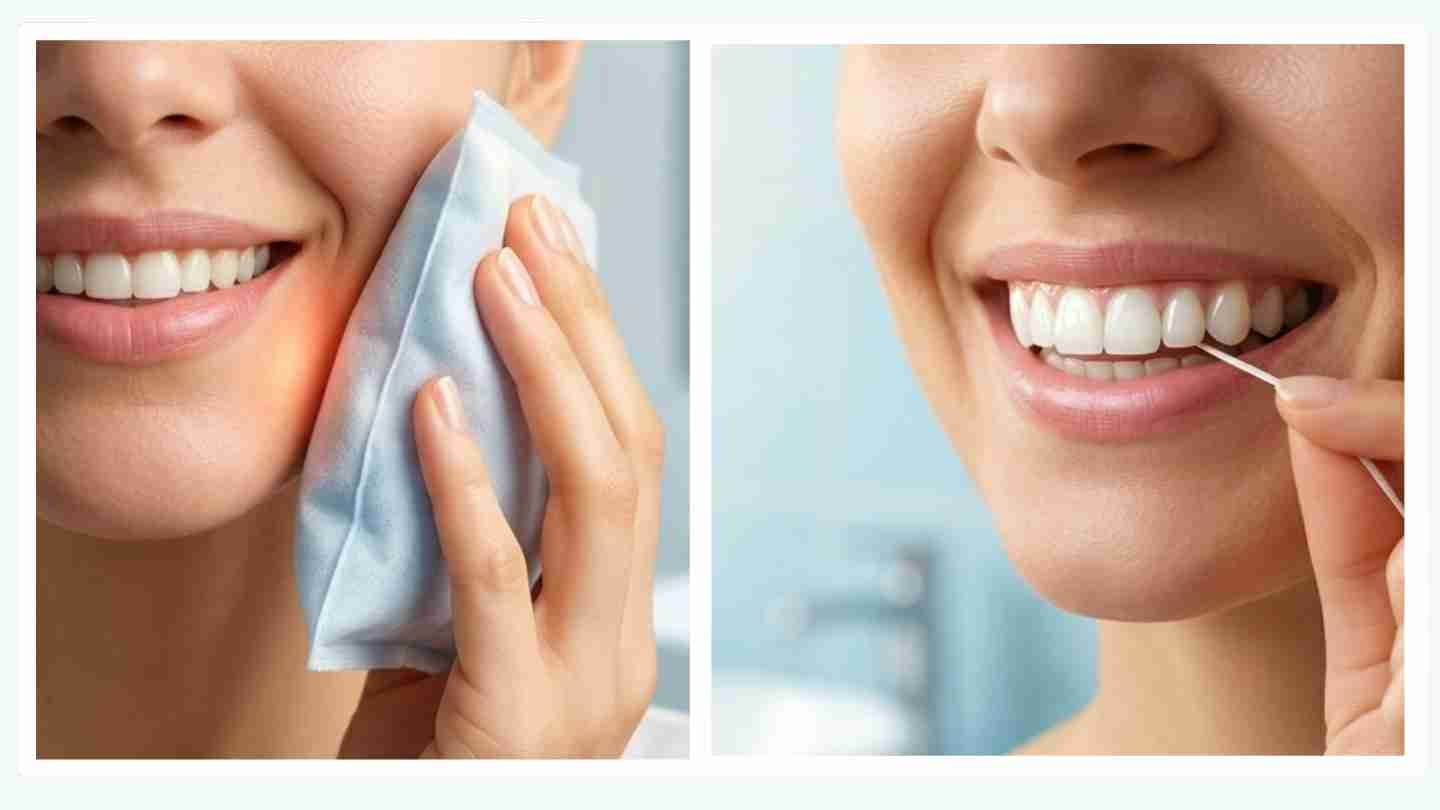
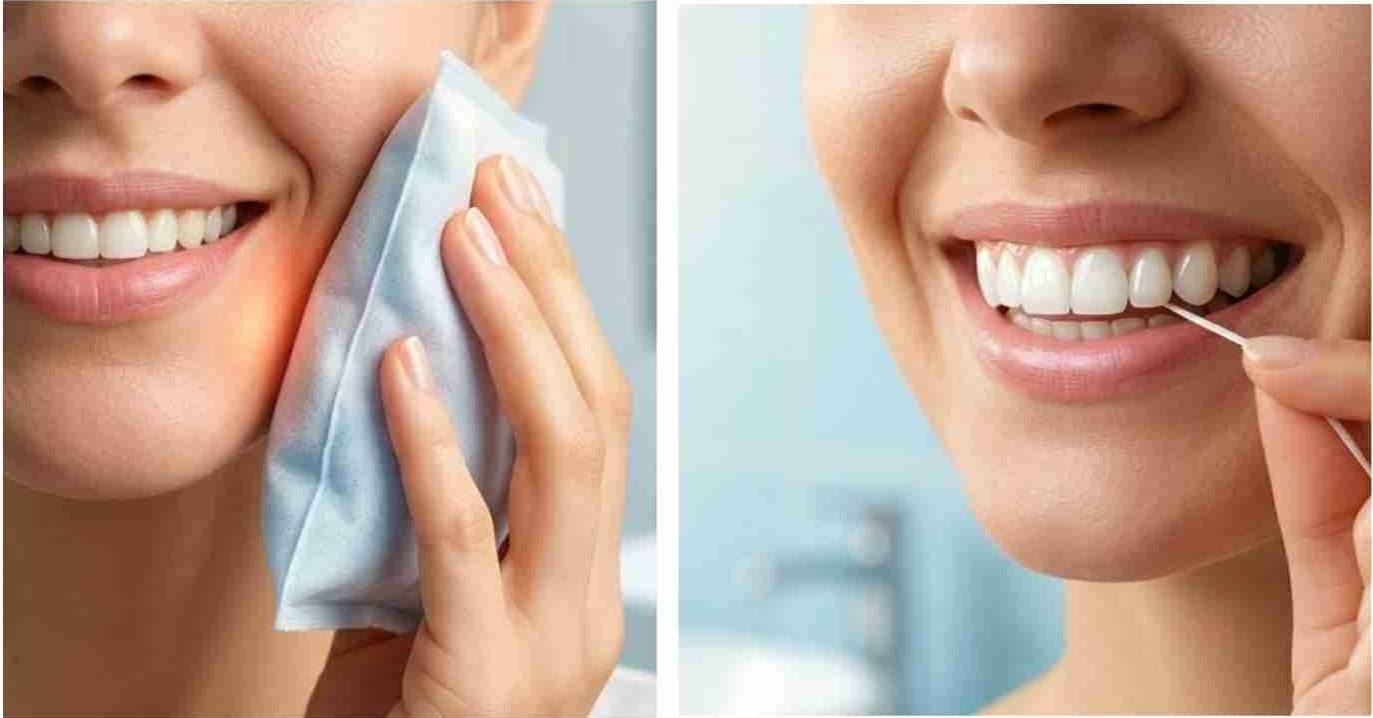
...

diff --git a/index.html b/index.html
@@ -452,7 +452,7 @@
         </div>
           <div class="w-full flex justify-center mt-6">
             <figure class="w-full max-w-[500px] flex flex-col items-center">
-              <div class="overflow-hidden rounded-xl bg-gray-50 w-full">
+              <div class="overflow-hidden rounded-xl  w-full">
                 <img
                   src="assets/secondImg.jpeg"
                   alt="Patient using a cold compress and maintaining oral hygiene during dental implant recovery"
